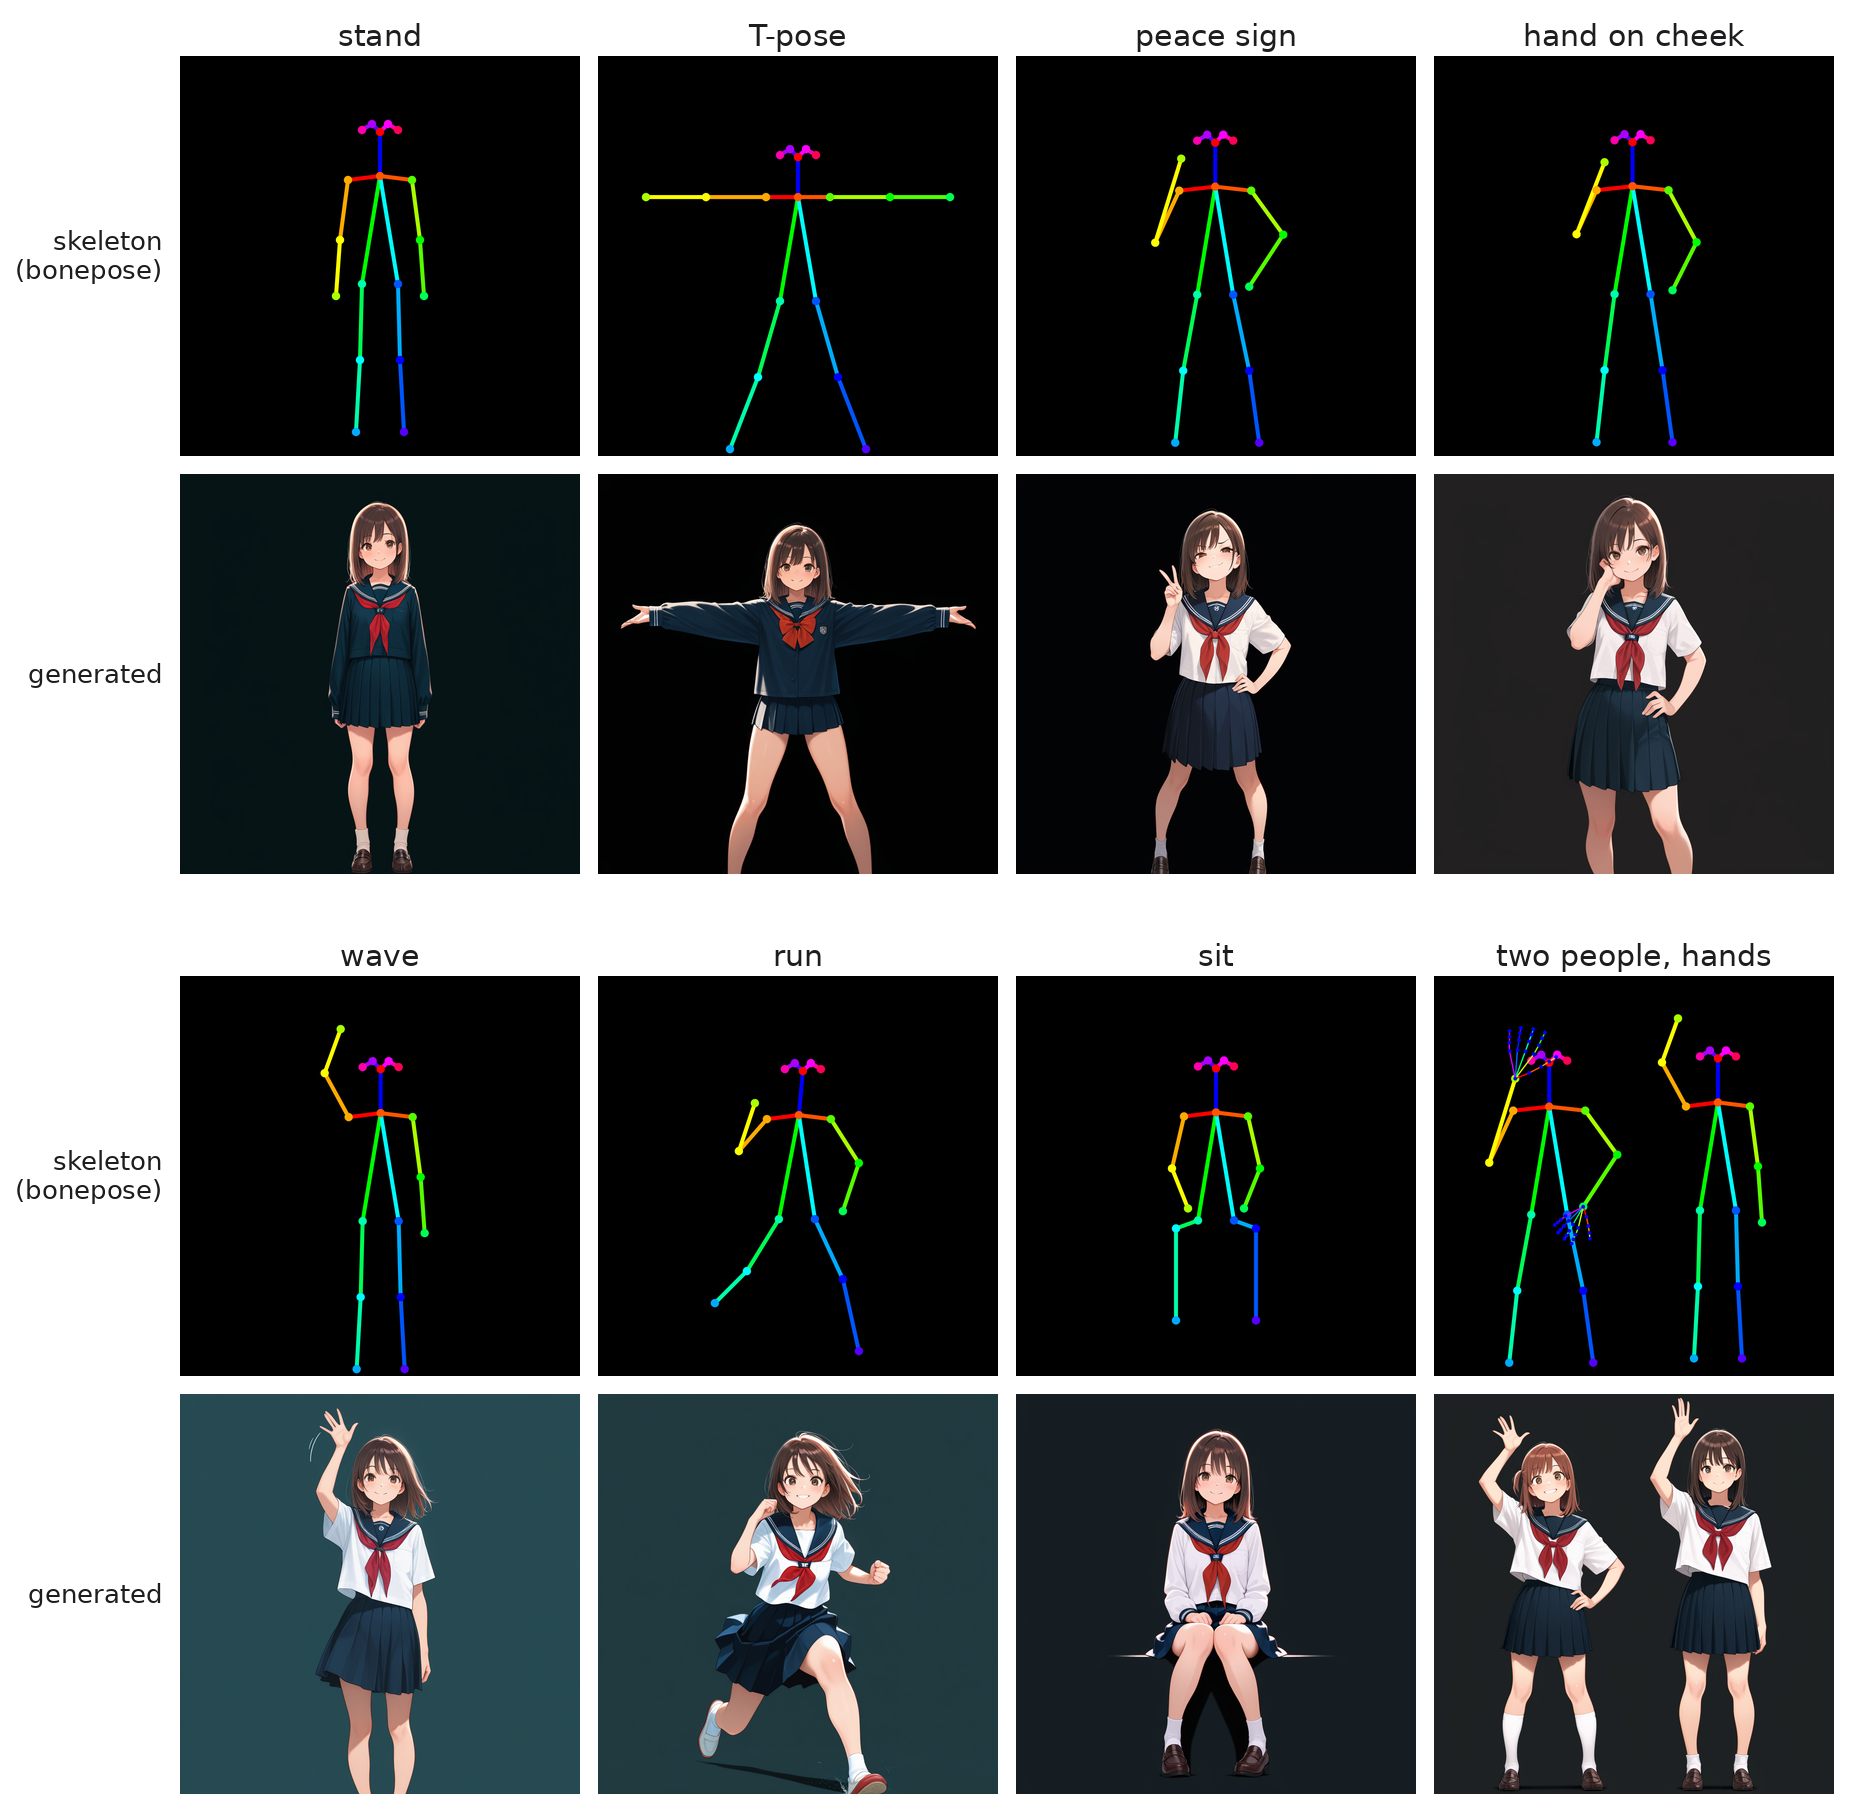
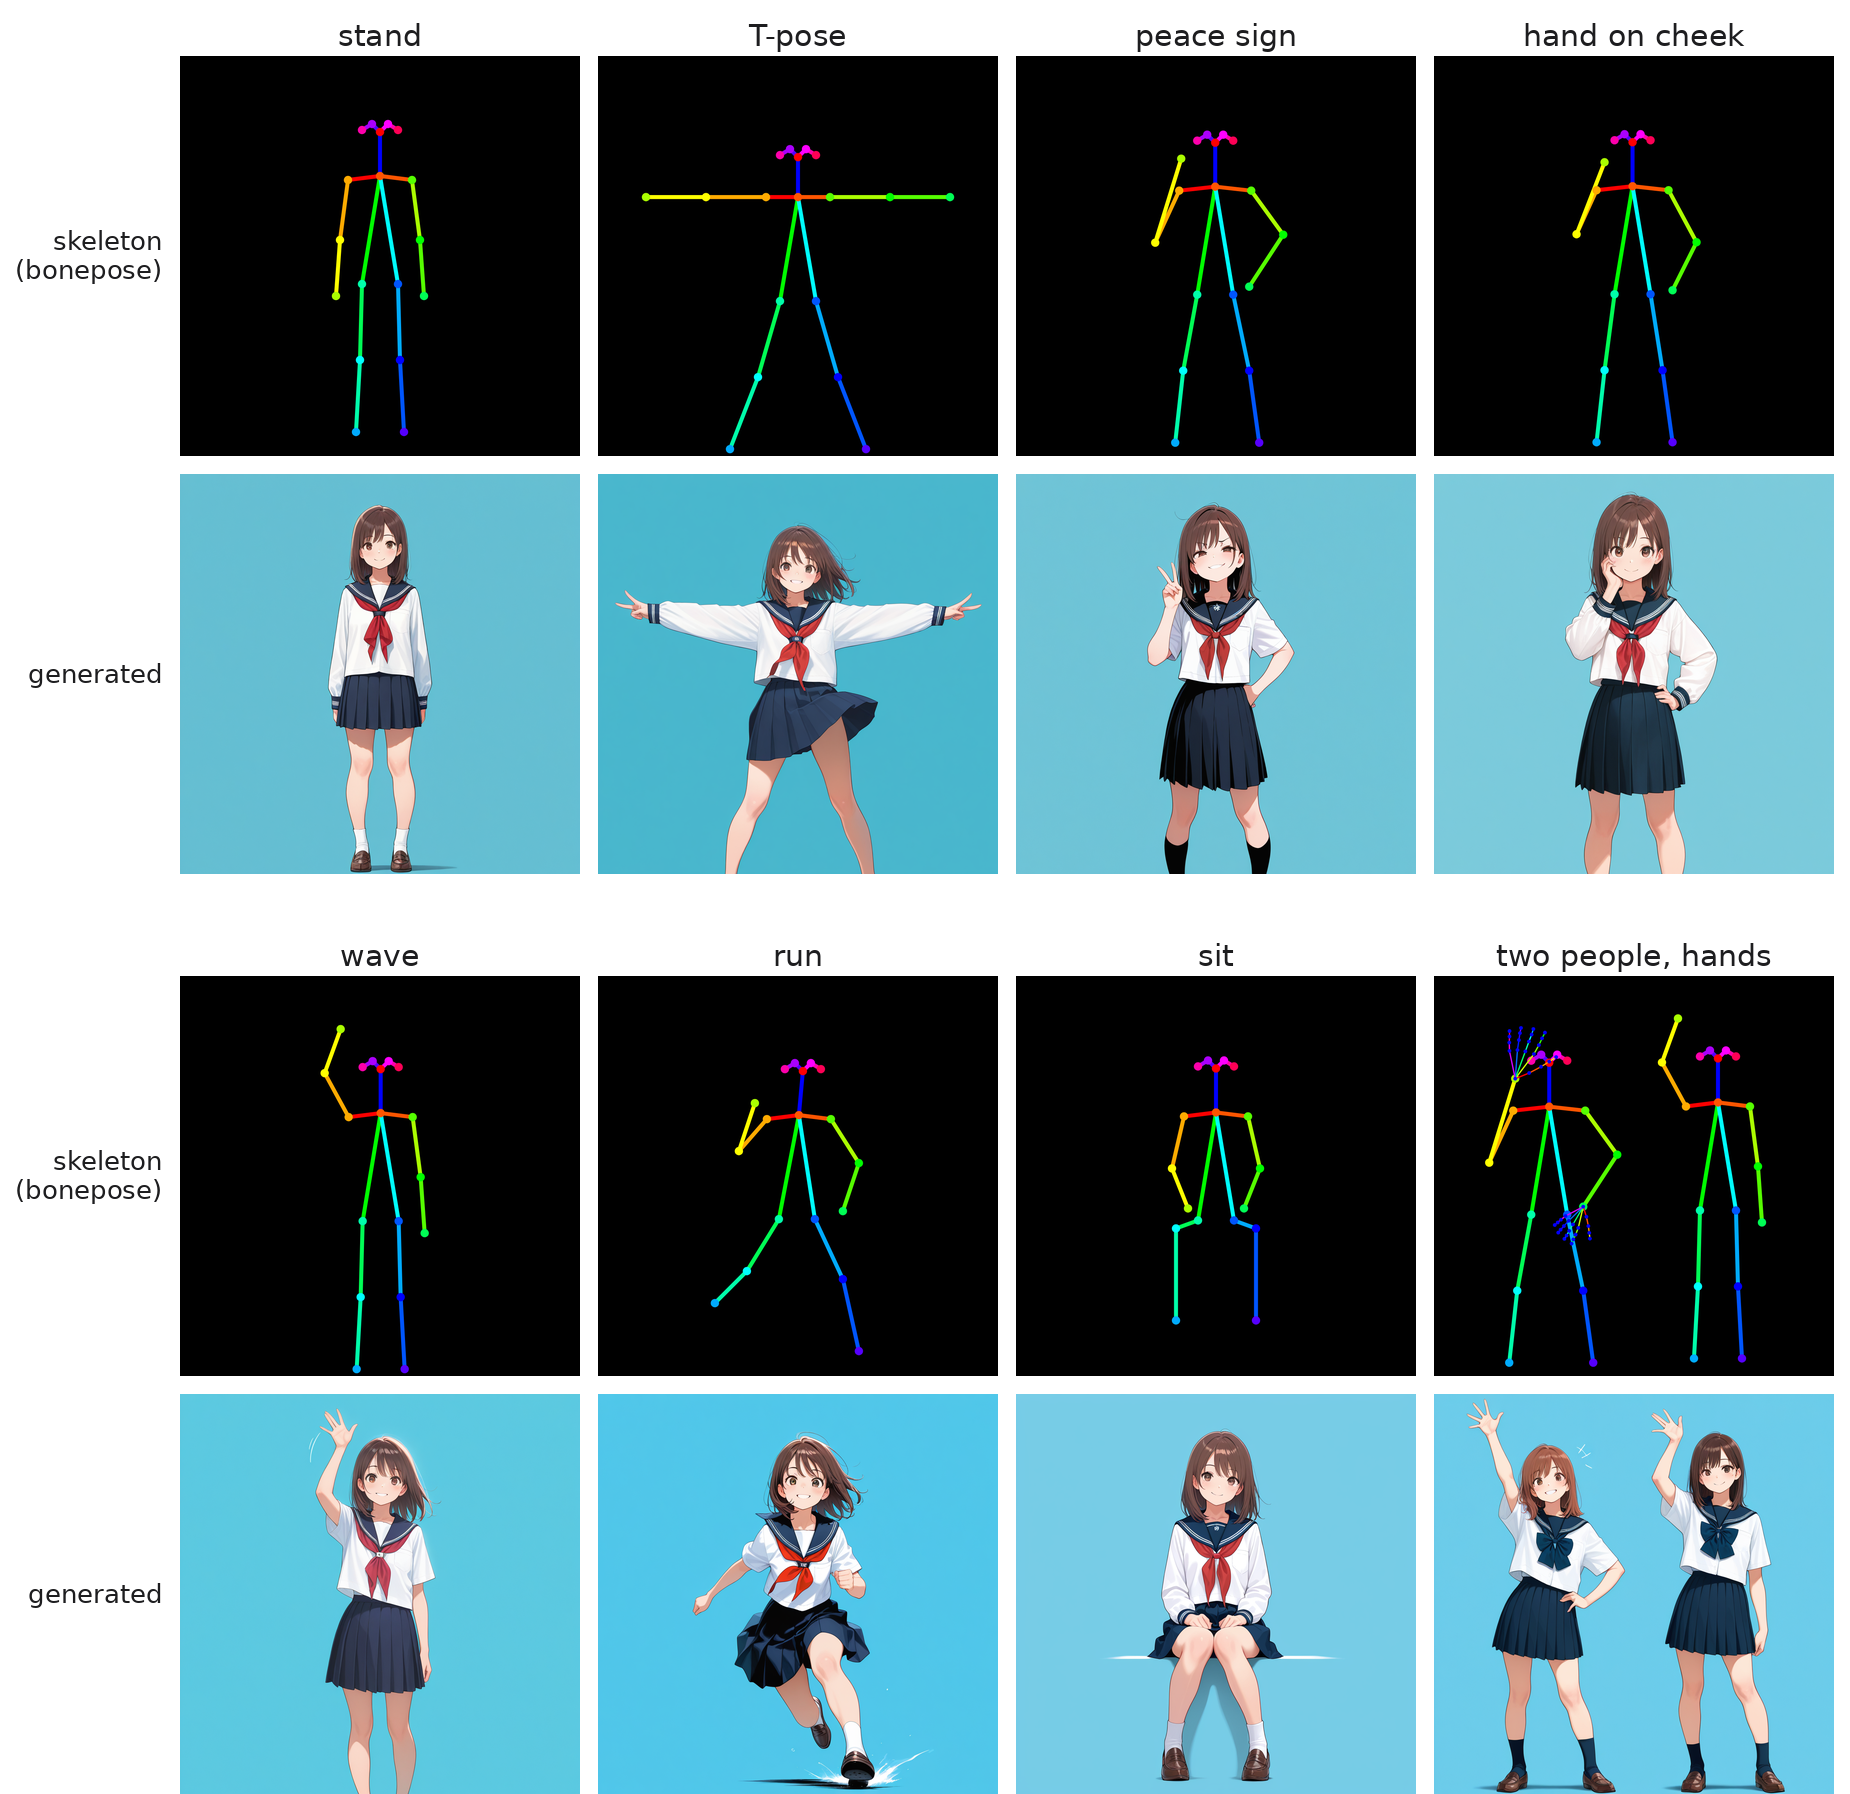
Gallery: regenerate with a light blue background
Same skeletons, prompt and settings; only "simple background" became
"light blue background" so the figures read better in the grid.

Claude-Session: https://claude.ai/code/session_018vs34Tgi8p4242pueGZx6Z

diff --git a/examples/generate_with_diffusers.py b/examples/generate_with_diffusers.py
@@ -10,7 +10,7 @@ HOME = Path.home()
 WAI = HOME / "models/sdxl/wai/waiIllustriousSDXL_v160.safetensors"
 CN = HOME / "models/sdxl/xinsir-openpose"
 OUT = Path(sys.argv[1] if len(sys.argv) > 1 else ".")   # directory holding skel_<name>.png exported from bonepose
-BASE = "masterpiece, best quality, amazing quality, {subj}, medium hair, brown hair, brown eyes, serafuku, school uniform, {pose}, smile, looking at viewer, full body, simple background"
+BASE = "masterpiece, best quality, amazing quality, {subj}, medium hair, brown hair, brown eyes, serafuku, school uniform, {pose}, smile, looking at viewer, full body, light blue background"
 NEG = "bad quality, worst quality, worst detail, sketch, censor, nsfw, bad anatomy, bad hands, extra digits, deformed, ugly"
 JOBS = {
     "stand": ("1girl, solo", "standing, arms at sides"),

diff --git a/README_ja.md b/README_ja.md
@@ -12,7 +12,7 @@ HTML ファイル一枚の OpenPose 骨格エディタです。ControlNet 用の
 
 ![gallery](docs/gallery.png)
 
-上の段が bonepose で描いた骨格（プリセット。1 枚は両手を付けたもの）、下の段がその骨格から生成した画像です。生成は WAI-illustrious-SDXL v16 と xinsir の OpenPose SDXL ControlNet を diffusers で RTX 4080 上で動かしました（1024 × 1024、25 ステップ、CFG 6、Euler a、seed 777、ControlNet の重み 1.0 を最初の 60 % のステップに適用。プロンプトは「masterpiece, best quality, amazing quality, 1girl, solo, medium hair, brown hair, brown eyes, serafuku, school uniform, <ポーズのタグ>, smile, looking at viewer, full body, simple background」）。同じ骨格 PNG は Draw Things、A1111、Forge、ComfyUI でもそのまま使えます。 生成スクリプトは `examples/generate_with_diffusers.py` です。
+上の段が bonepose で描いた骨格（プリセット。1 枚は両手を付けたもの）、下の段がその骨格から生成した画像です。生成は WAI-illustrious-SDXL v16 と xinsir の OpenPose SDXL ControlNet を diffusers で RTX 4080 上で動かしました（1024 × 1024、25 ステップ、CFG 6、Euler a、seed 777、ControlNet の重み 1.0 を最初の 60 % のステップに適用。プロンプトは「masterpiece, best quality, amazing quality, 1girl, solo, medium hair, brown hair, brown eyes, serafuku, school uniform, <ポーズのタグ>, smile, looking at viewer, full body, light blue background」）。同じ骨格 PNG は Draw Things、A1111、Forge、ComfyUI でもそのまま使えます。 生成スクリプトは `examples/generate_with_diffusers.py` です。
 
 ## 機能
 

diff --git a/README.md b/README.md
@@ -12,7 +12,7 @@ The exported PNG is exactly what an OpenPose ControlNet expects as its hint imag
 
 ![gallery](docs/gallery.png)
 
-Top rows: skeletons drawn in bonepose (presets, one with both hands added). Bottom rows: images generated from those skeletons with WAI-illustrious-SDXL v16 and the xinsir OpenPose SDXL ControlNet through diffusers on an RTX 4080 (1024 × 1024, 25 steps, CFG 6, Euler a, seed 777, ControlNet weight 1.0 for the first 60 % of the steps; prompt "masterpiece, best quality, amazing quality, 1girl, solo, medium hair, brown hair, brown eyes, serafuku, school uniform, <pose tags>, smile, looking at viewer, full body, simple background"). The same skeleton PNGs work unchanged in Draw Things, A1111, Forge and ComfyUI. The script is `examples/generate_with_diffusers.py`.
+Top rows: skeletons drawn in bonepose (presets, one with both hands added). Bottom rows: images generated from those skeletons with WAI-illustrious-SDXL v16 and the xinsir OpenPose SDXL ControlNet through diffusers on an RTX 4080 (1024 × 1024, 25 steps, CFG 6, Euler a, seed 777, ControlNet weight 1.0 for the first 60 % of the steps; prompt "masterpiece, best quality, amazing quality, 1girl, solo, medium hair, brown hair, brown eyes, serafuku, school uniform, <pose tags>, smile, looking at viewer, full body, light blue background"). The same skeleton PNGs work unchanged in Draw Things, A1111, Forge and ComfyUI. The script is `examples/generate_with_diffusers.py`.
 
 ## Features
 
